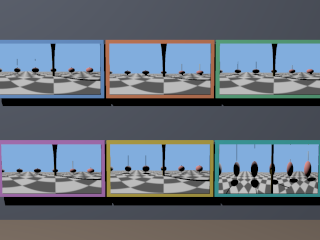
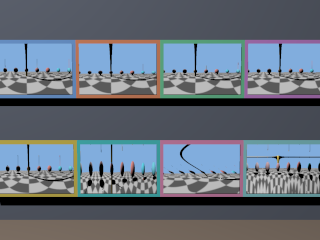
Add arbitrary cameras to the projection gallery

Changed region(s): [[0.0, 0.5833, 1.0, 0.875], [0.0, 0.1458, 1.0, 0.4375], [0.0, 0.4083, 0.0312, 0.4375]]

diff --git a/doc/html/r3_10.html b/doc/html/r3_10.html
@@ -937,7 +937,7 @@ light_source
 <a name="r3_10_5_10"></a>
 <div class="content-level-h4" contains="Projection Gallery and Live World Map" id="r3_10_5_10">
 <h4>3.10.5.10 Projection Gallery and Live World Map</h4>
-<p>A gallery wall compares six live panoramic photographs of one hidden scene using cameras from <code>projections.inc</code>: equirectangular, Mercator, Miller, cylindrical stereographic and equal-area profiles, followed by a Mercator camera whose origins move around an outward cylinder.</p>
+<p>A gallery wall compares eight live panoramic photographs of one hidden scene: five cylindrical profiles from <code>projections.inc</code>, a Mercator camera whose origins move around an outward cylinder, a twisted Mercator, and an outside-in turntable camera.</p>
 <pre>
 #include "projections.inc"
 #declare View = CylindricalProjectionCamera(
@@ -947,8 +947,8 @@ light_source
 pigment { screen { camera { View } } }
 </pre>
 <table class="centered" width="340px" cellpadding="0" cellspacing="10">
-<tr><td><img class="center" width="320px" src="images/portal_w10_projection_gallery.png" alt="Six live panoramic photographs using different projections"></td></tr>
-<tr><td><p class="caption">The same hidden scene through five vertical maps and an outward origin cylinder.</p></td></tr>
+<tr><td><img class="center" width="320px" src="images/portal_w10_projection_gallery.png" alt="Eight live panoramic photographs using standard and arbitrary function projections"></td></tr>
+<tr><td><p class="caption">Five cylindrical profiles, an outward origin cylinder, a twisted Mercator and an outside-in turntable view.</p></td></tr>
 </table>
 <p>An inward origin sphere performs the inverse job. A Mercator screen camera begins at every mapped point on a sphere just outside a procedural globe and fires toward its centre. The resulting live map textures a curled, thickened <code>skein_mesh</code> page on the table beside that globe.</p>
 <pre>
